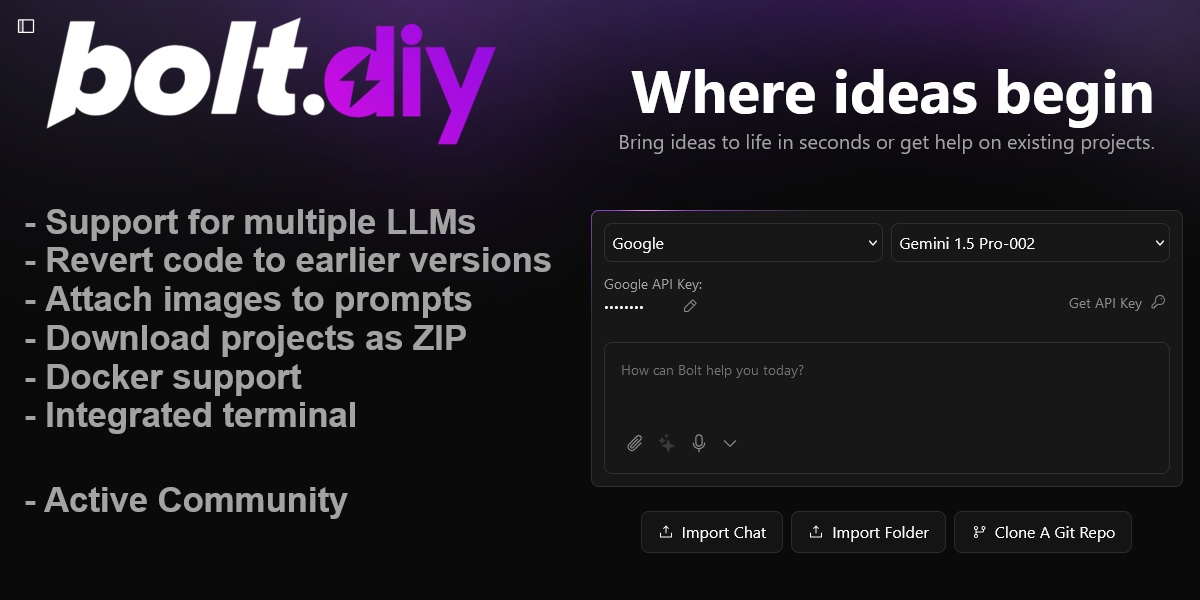
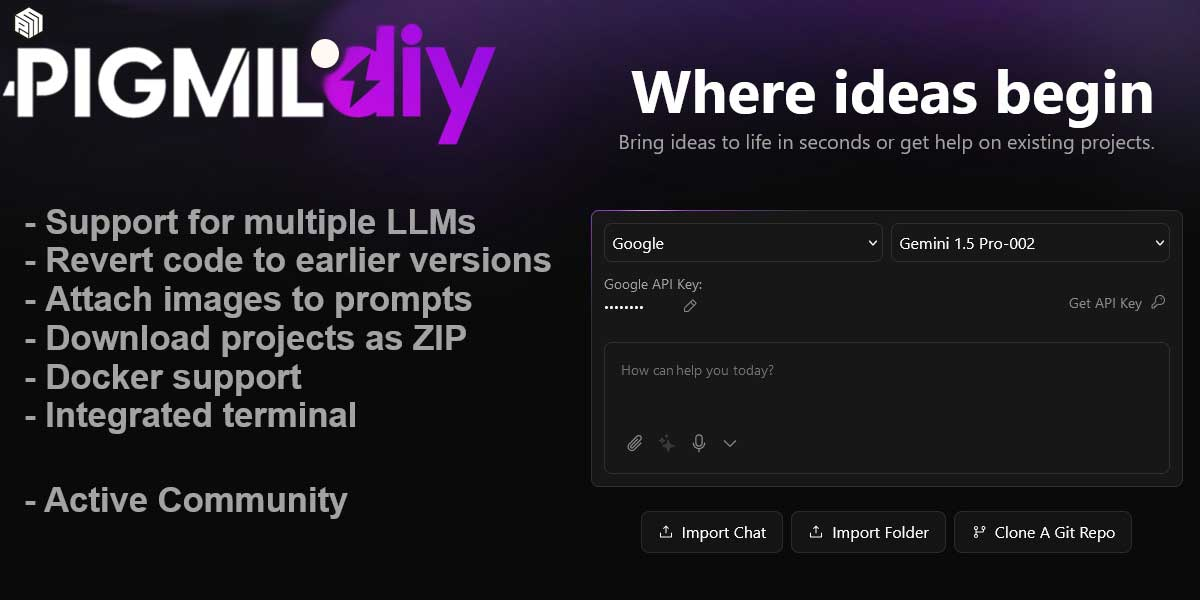
v1

Changed region(s): [[0.0, 0.0, 0.3083, 0.21], [0.555, 0.6, 0.6783, 0.63], [0.3083, 0.03, 0.3392, 0.06]]

diff --git a/README.md b/README.md
@@ -1,98 +1,18 @@
-# bolt.diy (Previously oTToDev)
+# PIGMIL.DIY
 
-[![bolt.diy: AI-Powered Full-Stack Web Development in the Browser](./public/social_preview_index.jpg)](https://bolt.diy)
+[![PIGMIL.DIY: AI-Powered Full-Stack Web Development in the Browser](./public/social_preview_index.jpg)](https://PIGMIL.DIY)
 
-Welcome to bolt.diy, the official open source version of Bolt.new (previously known as oTToDev and bolt.new ANY LLM), which allows you to choose the LLM that you use for each prompt! Currently, you can use OpenAI, Anthropic, Ollama, OpenRouter, Gemini, LMStudio, Mistral, xAI, HuggingFace, DeepSeek, or Groq models - and it is easily extended to use any other model supported by the Vercel AI SDK! See the instructions below for running this locally and extending it to include more models.
-
------
-Check the [bolt.diy Docs](https://stackblitz-labs.github.io/bolt.diy/) for more offical installation instructions and more informations.
-
------
-Also [this pinned post in our community](https://thinktank.ottomator.ai/t/videos-tutorial-helpful-content/3243) has a bunch of incredible resources for running and deploying bolt.diy yourself!
-
-We have also launched an experimental agent called the "bolt.diy Expert" that can answer common questions about bolt.diy. Find it here on the [oTTomator Live Agent Studio](https://studio.ottomator.ai/).
-
-bolt.diy was originally started by [Cole Medin](https://www.youtube.com/@ColeMedin) but has quickly grown into a massive community effort to build the BEST open source AI coding assistant!
+Welcome to PIGMIL.DIY, the official open source version of Bolt.new (previously known as oTToDev and bolt.new ANY LLM), which allows you to choose the LLM that you use for each prompt! Currently, you can use OpenAI, Anthropic, Ollama, OpenRouter, Gemini, LMStudio, Mistral, xAI, HuggingFace, DeepSeek, or Groq models - and it is easily extended to use any other model supported by the Vercel AI SDK! See the instructions below for running this locally and extending it to include more models.
+ 
+----- 
 
 ## Table of Contents
-
-- [Join the Community](#join-the-community)
-- [Requested Additions](#requested-additions)
+ 
 - [Features](#features)
 - [Setup](#setup)
 - [Run the Application](#run-the-application)
-- [Available Scripts](#available-scripts)
-- [Contributing](#contributing)
-- [Roadmap](#roadmap)
-- [FAQ](#faq)
-
-## Join the community
-
-[Join the bolt.diy community here, in the oTTomator Think Tank!](https://thinktank.ottomator.ai)
-
-## Project management
-
-Bolt.diy is a community effort! Still, the core team of contributors aims at organizing the project in way that allows
-you to understand where the current areas of focus are.
-
-If you want to know what we are working on, what we are planning to work on, or if you want to contribute to the
-project, please check the [project management guide](./PROJECT.md) to get started easily.
-
-## Requested Additions
-
-- ✅ OpenRouter Integration (@coleam00)
-- ✅ Gemini Integration (@jonathands)
-- ✅ Autogenerate Ollama models from what is downloaded (@yunatamos)
-- ✅ Filter models by provider (@jasonm23)
-- ✅ Download project as ZIP (@fabwaseem)
-- ✅ Improvements to the main bolt.new prompt in `app\lib\.server\llm\prompts.ts` (@kofi-bhr)
-- ✅ DeepSeek API Integration (@zenith110)
-- ✅ Mistral API Integration (@ArulGandhi)
-- ✅ "Open AI Like" API Integration (@ZerxZ)
-- ✅ Ability to sync files (one way sync) to local folder (@muzafferkadir)
-- ✅ Containerize the application with Docker for easy installation (@aaronbolton)
-- ✅ Publish projects directly to GitHub (@goncaloalves)
-- ✅ Ability to enter API keys in the UI (@ali00209)
-- ✅ xAI Grok Beta Integration (@milutinke)
-- ✅ LM Studio Integration (@karrot0)
-- ✅ HuggingFace Integration (@ahsan3219)
-- ✅ Bolt terminal to see the output of LLM run commands (@thecodacus)
-- ✅ Streaming of code output (@thecodacus)
-- ✅ Ability to revert code to earlier version (@wonderwhy-er)
-- ✅ Chat history backup and restore functionality (@sidbetatester)
-- ✅ Cohere Integration (@hasanraiyan)
-- ✅ Dynamic model max token length (@hasanraiyan)
-- ✅ Better prompt enhancing (@SujalXplores)
-- ✅ Prompt caching (@SujalXplores)
-- ✅ Load local projects into the app (@wonderwhy-er)
-- ✅ Together Integration (@mouimet-infinisoft)
-- ✅ Mobile friendly (@qwikode)
-- ✅ Better prompt enhancing (@SujalXplores)
-- ✅ Attach images to prompts (@atrokhym)(@stijnus)
-- ✅ Added Git Clone button (@thecodacus)
-- ✅ Git Import from url (@thecodacus)
-- ✅ PromptLibrary to have different variations of prompts for different use cases (@thecodacus)
-- ✅ Detect package.json and commands to auto install & run preview for folder and git import (@wonderwhy-er)
-- ✅ Selection tool to target changes visually (@emcconnell)
-- ✅ Detect terminal Errors and ask bolt to fix it (@thecodacus)
-- ✅ Detect preview Errors and ask bolt to fix it (@wonderwhy-er)
-- ✅ Add Starter Template Options (@thecodacus)
-- ✅ Perplexity Integration (@meetpateltech)
-- ✅ AWS Bedrock Integration (@kunjabijukchhe)
-- ⬜ **HIGH PRIORITY** - Prevent bolt from rewriting files as often (file locking and diffs)
-- ⬜ **HIGH PRIORITY** - Better prompting for smaller LLMs (code window sometimes doesn't start)
-- ⬜ **HIGH PRIORITY** - Run agents in the backend as opposed to a single model call
-- ⬜ Deploy directly to Vercel/Netlify/other similar platforms
-- ⬜ Have LLM plan the project in a MD file for better results/transparency
-- ⬜ VSCode Integration with git-like confirmations
-- ⬜ Upload documents for knowledge - UI design templates, a code base to reference coding style, etc.
-- ⬜ Voice prompting
-- ⬜ Azure Open AI API Integration
-- ⬜ Vertex AI Integration
-- ⬜ Granite Integration
-- ✅ Popout Window for Web Container(@stijnus)
-- ✅ Ability to change Popout window size (@stijnus)
-
+- [Available Scripts](#available-scripts) 
+ 
 ## Features
 
 - **AI-powered full-stack web development** for **NodeJS based applications** directly in your browser.
@@ -104,16 +24,6 @@ project, please check the [project management guide](./PROJECT.md) to get starte
 - **Integration-ready Docker support** for a hassle-free setup.
 
 ## Setup
-
-If you're new to installing software from GitHub, don't worry! If you encounter any issues, feel free to submit an "issue" using the provided links or improve this documentation by forking the repository, editing the instructions, and submitting a pull request. The following instruction will help you get the stable branch up and running on your local machine in no time.
-
-Let's get you up and running with the stable version of Bolt.DIY!
-
-## Quick Download
-
-[![Download Latest Release](https://img.shields.io/github/v/release/stackblitz-labs/bolt.diy?label=Download%20Bolt&sort=semver)](https://github.com/stackblitz-labs/bolt.diy/releases/latest) ← Click here to go the the latest release version!
-
-- Next **click source.zip**
 
 ## Prerequisites
 
@@ -142,7 +52,7 @@ Node.js is required to run the application.
 
 ## Running the Application
 
-You have two options for running Bolt.DIY: directly on your machine or using Docker.
+You have two options for running PIGMIL.DIY: directly on your machine or using Docker.
 
 ### Option 1: Direct Installation (Recommended for Beginners)
 
@@ -195,7 +105,7 @@ This option requires some familiarity with Docker but provides a more isolated e
 
 ### Adding Your API Keys
 
-Setting up your API keys in Bolt.DIY is straightforward:
+Setting up your API keys in PIGMIL.DIY is straightforward:
 
 1. Open the home page (main interface)
 2. Select your desired provider from the dropdown menu
@@ -243,13 +153,13 @@ This method is recommended for developers who want to:
 
    ```bash
    # Using HTTPS
-   git clone https://github.com/stackblitz-labs/bolt.diy.git
+   git clone https://github.com/pigmilcom/pigmil.diy.git
    ```
 
 2. **Navigate to Project Directory**:
 
    ```bash
-   cd bolt.diy
+   cd pigmil.diy
    ```
 
 3. **Switch to the Main Branch**:
@@ -334,19 +244,4 @@ Remember to always commit your local changes or stash them before pulling update
 - **`pnpm run lint:fix`**: Automatically fixes linting issues.
 
 ---
-
-## Contributing
-
-We welcome contributions! Check out our [Contributing Guide](CONTRIBUTING.md) to get started.
-
----
-
-## Roadmap
-
-Explore upcoming features and priorities on our [Roadmap](https://roadmap.sh/r/ottodev-roadmap-2ovzo).
-
----
-
-## FAQ
-
-For answers to common questions, issues, and to see a list of recommended models, visit our [FAQ Page](FAQ.md).
+ 
